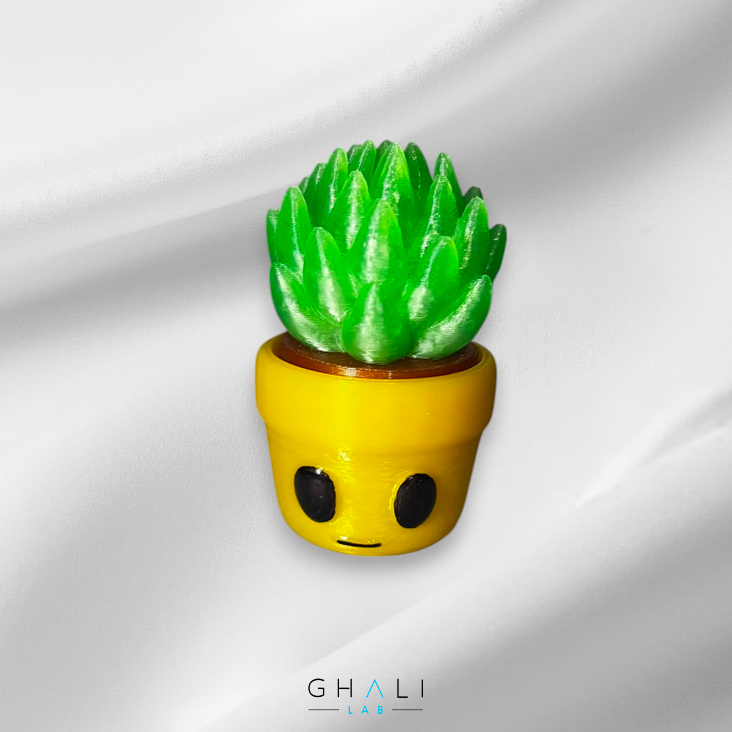
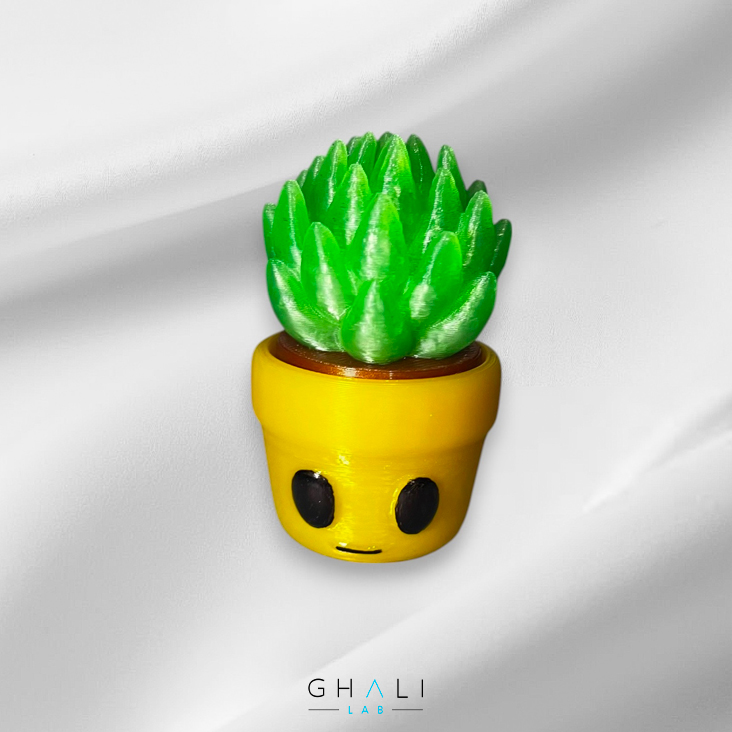
Update: Stock more pics

Changed region(s): [[0.3306, 0.1803, 0.7213, 0.7814]]

diff --git a/stock.html b/stock.html
@@ -790,7 +790,7 @@
 
         <div class="col product-item clicker" data-price="25000">
           <div class="card h-100 bg-white text-dark position-relative p-2" style="border-radius: 12px; border: 1px solid #e0e0e0; box-shadow: 0 2px 5px rgba(0,0,0,0.05);">
-            <a href="images/ghali shop/clicker-succulentus.jpg" class="product-img-wrapper" data-title="Clicker materita con carita" data-extra-images="">
+            <a href="images/ghali shop/clicker-succulentus.jpg" class="product-img-wrapper" data-title="Clicker materita con carita" data-extra-images="images/ghali shop/clicker-succulentus2.jpg">
               <img src="images/ghali shop/clicker-succulentus.jpg" class="card-img-top" alt="Clicker materita con carita" style="border-radius: 8px; aspect-ratio: 1 / 1; object-fit: cover;">
             </a>
             <div class="card-body px-1 pt-3 pb-2 d-flex flex-column justify-content-between">